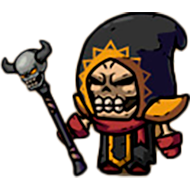
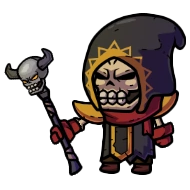
Reemplazo de imágenes y modificado implementación de ataques.

diff --git a/03-guerreros/js/code.js b/03-guerreros/js/code.js
@@ -147,7 +147,7 @@ function generate_enemy_attacks() {
     enemy_skills = enemy_characters.find(character => character.name ===
         enemy_name).attacks_skills
     // Generar una lista con los nombres de los ataques
-    enemy_skills[0].forEach((skill) => {
+    enemy_skills.forEach((skill) => {
         skill_list.push(skill.id.slice(4))
     })
     enemy_attacks = randomize_list(skill_list)
@@ -169,8 +169,10 @@ function fill_with_skills(character_name) {
     skill_list.forEach((skill) => {
         // Crear un botón en HTML con el ataque.
         skill_button = `
-        <button id="${skill.id}" class="attack-button" 
-        title="${skill.description}">${skill.name}</button>
+        <button id="btn-${skill.id}" class="attack-button" 
+        title="${skill.description}"> ${skill.description}
+        <img src='${skill.image}'/>
+        </button>
         `
         div_attack_buttons.innerHTML += skill_button
     })
@@ -187,11 +189,13 @@ function generate_player_attacks() {
    */
 
     attack_buttons.forEach((button) => {
-        button.addEventListener("click", (e) => {
+/*         button.addEventListener("click", (e) => {
             player_attacks.push(e.target.id.slice(4))
             button.style = "background:  #c3baa2;"
             button.disabled = true
         })
+ */        
+        button.addEventListener("click", attack)
     })
     generate_enemy_attacks()
 }
@@ -223,7 +227,7 @@ function select_warrior() {
     player_image.src = user_characters.find(character => character.name ===
         warrior_selected).image
     player_image.alt = warrior_selected
-    
+
     // Obtener la cantidad de vida del personaje elegido.
     player_health = user_characters.find(character => character.name ===
         warrior_selected).health
@@ -383,14 +387,13 @@ function attack(event) {
         div_attack_messages.style.display = "grid"
     }
 
-    if (event.target.id == "btn-earth") {
+    if (event.currentTarget.id.slice(4) == "earth") {
         player_attack = 1 // Ataque de tierra.
-    } else if (event.target.id == "btn-water") {
+    } else if (event.currentTarget.id.slice(4) == "water") {
         player_attack = 2 // Ataque de agua.
     } else {
         player_attack = 3 // Ataque de fuego.
     }
-    console.log(player_attack)
 
     // Generar un número entre 1 y 3 que representará el ataque enemigo:
     enemy_attack = get_random_number(1, 3)
@@ -464,33 +467,34 @@ window.addEventListener("load", init)
 
 // Agregar habilidades de ataque a cada personaje.
 knight.attacks_skills.push(
-    { id: "btn-earth", name: "🍃", description: "Tierra 🍃" },
-    { id: "btn-earth", name: "🍃", description: "Tierra 🍃" },
-    { id: "btn-earth", name: "🍃", description: "Tierra 🍃" },
-    { id: "btn-water", name: "💧", description: "Agua 💧" },
-    { id: "btn-fire", name: "🔥", description: "Fuego 🔥" }
+    {
+        id: "earth",
+        image: "./images/Battle_Slow_icon.png",
+        value: 1,
+        description: "Tierra " //🍃
+    },
+    {
+        id: "water",
+        image: "./images/Water_Ring_icon.png",
+        value: 2,
+        description: "Agua "//💧
+    },
+    {
+        id: "fire",
+        image: "./images/Fireball.png",
+        value: 3,
+        description: "Fuego " // 🔥
+    },
 )
 
-archer.attacks_skills.push(
-   { id: "btn-water", name: "💧", description: "Agua 💧" },
-   { id: "btn-water", name: "💧", description: "Agua 💧" },
-   { id: "btn-water", name: "💧", description: "Agua 💧" },
-    { id: "btn-earth", name: "🍃", description: "Tierra 🍃" },
-    { id: "btn-fire", name: "🔥", description: "Fuego 🔥" }
-)
+archer.attacks_skills = knight.attacks_skills
 
-mage.attacks_skills.push(
-   { id: "btn-fire", name: "🔥", description: "Fuego 🔥" },
-   { id: "btn-fire", name: "🔥", description: "Fuego 🔥" },
-   { id: "btn-fire", name: "🔥", description: "Fuego 🔥" },
-    { id: "btn-earth", name: "🍃", description: "Tierra 🍃" },
-    { id: "btn-water", name: "💧", description: "Agua 💧" }
-)
+mage.attacks_skills = knight.attacks_skills
 
 // Los enemigos tendrán las mismas skills que los personajes a elegir.
-skeleton_soldier.attacks_skills.push(knight.attacks_skills)
-skeleton_archer.attacks_skills.push(archer.attacks_skills)
-skeleton_mage.attacks_skills.push(mage.attacks_skills)
+skeleton_soldier.attacks_skills = knight.attacks_skills
+skeleton_archer.attacks_skills = archer.attacks_skills
+skeleton_mage.attacks_skills = mage.attacks_skills
 
 // Agregar todos los objetos character a la lista.
 user_characters.push(knight, archer, mage)

diff --git a/03-guerreros/css/styles.css b/03-guerreros/css/styles.css
@@ -225,7 +225,7 @@ input:checked + label {
 }
 
 .attack-button {
-    width: 80px;
+    width: 140px;
     padding: 10px;
     margin: 5px;
     box-sizing: border-box;
@@ -235,6 +235,12 @@ input:checked + label {
     font-family: 'Bangers', cursive;
     font-size:larger;
     color: #3F4E4F;
+}
+
+.attack-button img {
+    vertical-align: middle;
+    height: 40px;
+     width: 40px;
 }
 
 #div-messages {
